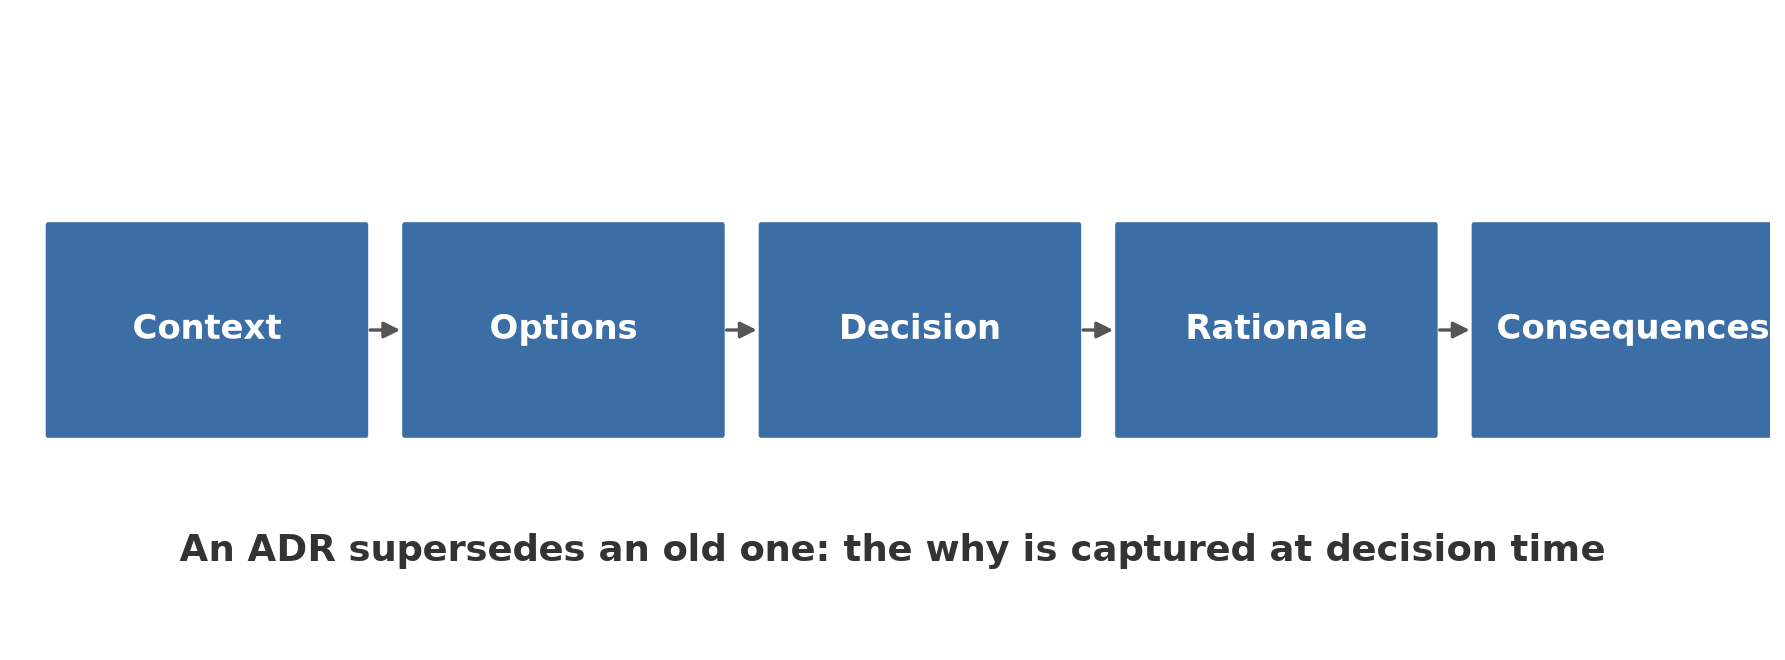
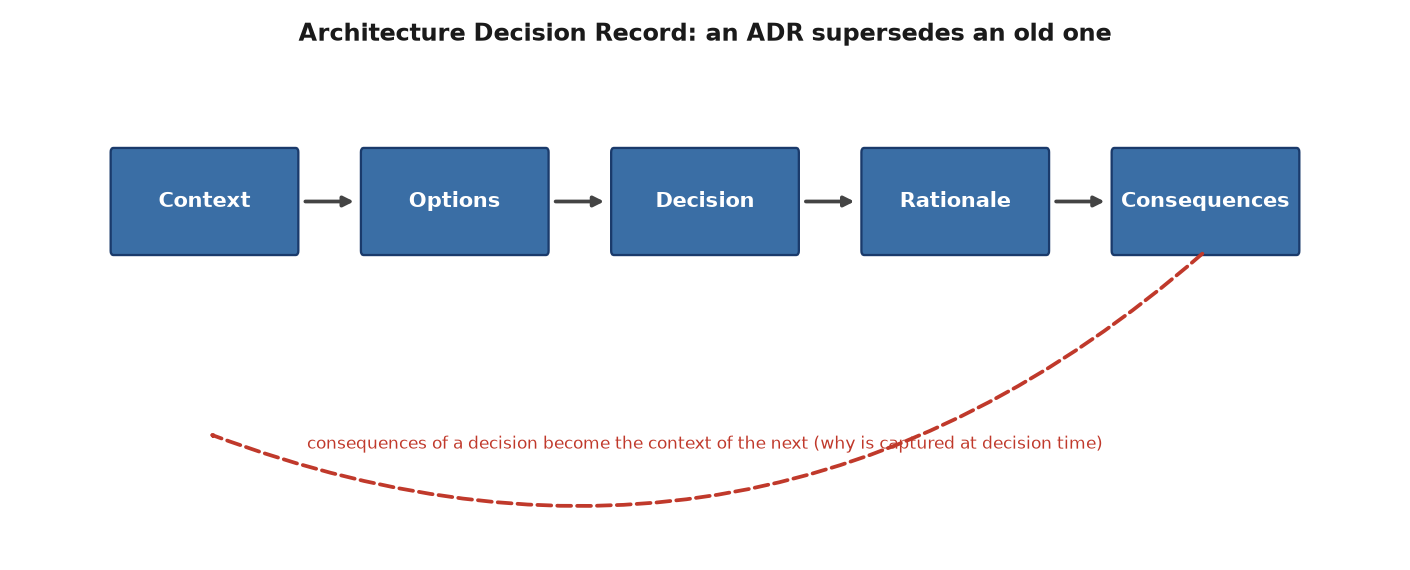
Fix Fig 25.1 ADR chain: no clipping on last box, consequences->context supersession feedback, readable

diff --git a/render/fig_ch25_adr.py b/render/fig_ch25_adr.py
@@ -1,0 +1,37 @@
+import matplotlib
+matplotlib.use('Agg')
+import matplotlib.pyplot as plt
+from matplotlib.patches import FancyBboxPatch, FancyArrowPatch
+
+# ---- fig-25-2501: Architecture Decision Record (ADR) supersession chain ----
+# An ADR supersedes an old one: the why is captured at decision time.
+fig, ax = plt.subplots(figsize=(9.4, 3.8))
+ax.set_xlim(0, 24); ax.set_ylim(0, 6); ax.axis('off')
+ax.set_title('Architecture Decision Record: an ADR supersedes an old one', fontsize=11.5,
+             fontweight='bold', color='#1a1a1a')
+
+stages = ['Context', 'Options', 'Decision', 'Rationale', 'Consequences']
+n = len(stages)
+w = 3.2; gap = 1.2
+total = n*w + (n-1)*gap
+x0 = (24 - total)/2.0
+z = 3.6
+for i, name in enumerate(stages):
+    x = x0 + i*(w+gap)
+    ax.add_patch(FancyBboxPatch((x, z), w, 1.2, boxstyle='round,pad=0.05', fc='#3a6ea5', ec='#1a3a6b', lw=1.1))
+    ax.text(x+w/2, z+0.6, name, ha='center', va='center', fontsize=10, color='white', fontweight='bold')
+    if i < n-1:
+        ax.annotate('', xy=(x+w+gap-0.1, z+0.6), xytext=(x+w+0.1, z+0.6),
+                    arrowprops=dict(arrowstyle='-|>', lw=1.8, color='#444'))
+
+# feedback: consequences engender the next decision (supersession) -> back to context
+ax.add_patch(FancyArrowPatch((x0+4*(w+gap)+w/2, z), (x0+w/2, z-2.2),
+             connectionstyle='arc3,rad=-0.3', arrowstyle='-|>', lw=1.8, color='#c0392b',
+             ls='--'))
+ax.text(12.0, 1.2, 'consequences of a decision become the context of the next (why is captured at decision time)',
+        fontsize=8.2, ha='center', color='#c0392b')
+
+plt.tight_layout()
+plt.savefig('design/manuscript/chapter-25/figures/fig-25-2501.png', dpi=150)
+plt.close()
+print('wrote fig-25-2501')
